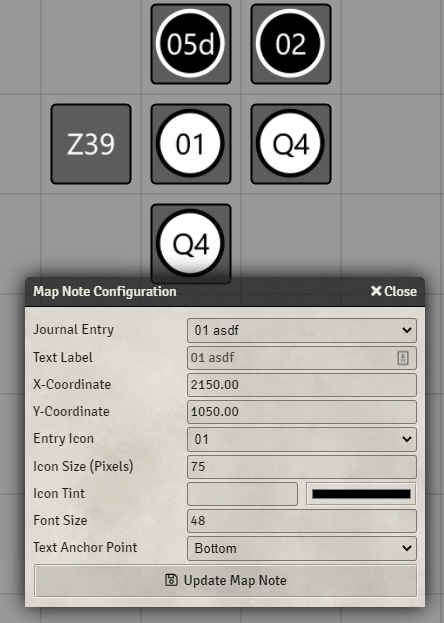
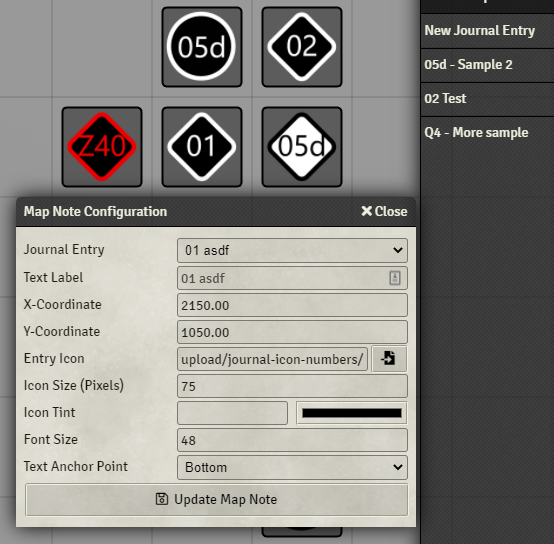
Refactor to use regex, and add in new shapes

diff --git a/src/index.js b/src/index.js
@@ -1,100 +1,94 @@
 
-function* label_itr() {
-    // Generate all letters [a-zA-Z], including blank
-    var letters = [""]
-    for (let x = 0;x<26;x++) {
-        letters.push(String.fromCharCode(97+x));
-    }
-    for (let x = 0;x<26;x++) {
-        letters.push(String.fromCharCode(65+x));
-    }
-    
-    // All numbers 1-99, both 0 padded and not
-    var numbers = []
-    for (let i = 1; i < 10; i++) {
-        numbers.push(("" + i ))
-    }
-    for (let i = 1; i < 100; i++) {
-        numbers.push(("" + i ).padStart(2, "0"));
-    }
-
-    // Number + Letter ordering
-    for (const order of [0,1]){
-        for (const number of numbers) {
-            for (const letter of letters) {
-                const label = order ? number + letter: letter + number;
-                const u_l = letter == letter.toUpperCase()?"upper":"lower";
-                const iconType = game.settings.get('journal-icon-numbers', "iconType");
-                
-                const iconFilename = `${iconType}_${u_l}_${label}.svg`;
-                yield [label,iconFilename];
-            }
-        }
-    }
-}
-
-
-    
 
 async function renderNoteConfig(app, html, data) {
-
+    
     const label_source = (data.object.text != undefined && data.object.text.length >=1) ? data.object.text : data.entryName;
     var [iconFilepath,label] = await getMakeIcon(label_source);
     if (iconFilepath === null){
-        return;
+        return; // Not valid, so keep default icon.
     }
     // Fix for Pin Cushion, which uses a file picker instead of the dropdown
     $('input.icon-path[name="icon"]').val(iconFilepath);
+    //$('input.icon-path[name="icon"]').val("auto.svg");
 
     // Add item to selector
     $('select[name="icon"]', html).append(`<option value=${iconFilepath} selected>${label}</option>`);
-
+    //$('select[name="icon"]', html).append(`<option value=Auto selected>Auto</option>`);
+    
+    //console.log($('section.window-content',html)[0].children)
+    //console.log($('section.window-content',html)[0].children[0])
+    //console.log($('section.window-content',html)[0].children[0][8])
+    //html.find('div.form-group')[6].after("<p> asdf</p>")
+    
     // TODO Add config for this size override
     $('input[name="iconSize"]').val(Math.round(game.scenes.viewed.data.grid * 0.75));
 }
 
 
+function templateCircle(fill, stroke) {
+    return `<circle style="fill:${fill};stroke:${stroke};stroke-width:30;stroke-miterlimit:10;" cx="250" cy="250" r="220" />`
+}
+function templateSquare(fill, stroke) {
+    return `<rect style="fill:${fill};stroke:${stroke};stroke-width:30;stroke-miterlimit:10;" x="31" y="31" height="450" width="450"/>`
+}
+function templateDiamond(fill, stroke) {
+    return `<rect style="fill:${fill};stroke:${stroke};stroke-width:30;stroke-miterlimit:10;" x="190" y="-170" height="340" width="340"  transform="rotate(45)" ry="50"/>`
+}
+function templateText(color,label) {
+    return `<text font-family='-apple-system, BlinkMacSystemFont, "Segoe UI", Roboto, Helvetica, Arial, sans-serif, "Apple Color Emoji", "Segoe UI Emoji", "Segoe UI Symbol"' font-size="200" font-weight="400"  x="50%" y="50%" text-anchor="middle" fill="${color}" stroke="${color}" dy=".3em">${label}</text></g></svg>`
+}
+
 
 async function getMakeIcon(label_source) {            
     // user-placed map note
+     
+    var matches = label_source.match(/^\d{1,2}[a-zA-Z]?|^[a-zA-Z]\d{1,2}/)
+    if (matches) {
+        var label = matches[0];
+        var u_l = label.match(/[A-Z]/) ?"upper":"lower"; 
+        
+        const iconType = game.settings.get('journal-icon-numbers', "iconType");
+        const iconColor = game.settings.get('journal-icon-numbers', "iconColor");
+        
+        var iconFilename = `${iconColor}_${iconType}_${u_l}_${label}.svg`;
     
-    const idx1 = label_source.length >= 1 ? label_source.substr(0, 1) : "";
-    const idx2 = label_source.length >= 2 ? label_source.substr(0, 2) : "";
-    const idx3 = label_source.length >= 3 ? label_source.substr(0, 3) : "";
-    
-    for (const idx of [idx3, idx2, idx1]) {
-        for (const [label,iconFilename] of label_itr()) {
-            
-            if (idx === label) {
-                console.debug("Auto-Journal-Icon",label,iconFilename);
-                // Iterator returns >10K entries, so only display ones that match this label
+        console.debug("Auto-Journal-Icon",label,iconFilename);
 
-                const iconType = game.settings.get('journal-icon-numbers', "iconType");
-                              
-                // TODO refactor blobs of html
-                var typeString = '<svg xmlns="http://www.w3.org/2000/svg" xmlns:xlink="http://www.w3.org/1999/xlink" xml:space="preserve" style="shape-rendering:geometricPrecision; text-rendering:geometricPrecision; image-rendering:optimizeQuality; fill-rule:evenodd; clip-rule:evenodd" viewBox="0 0 512 512" width="512" height="512"><g>';
-                
-                switch (iconType) {
-                    case "wcbf":
-                        typeString += '<circle style="fill:#ffffff;stroke:#010101;stroke-width:30;stroke-miterlimit:10;" cx="250" cy="250" r="220"> </circle> <text font-family=\'-apple-system, BlinkMacSystemFont, "Segoe UI", Roboto, Helvetica, Arial, sans-serif, "Apple Color Emoji", "Segoe UI Emoji", "Segoe UI Symbol"\' font-size="200" font-weight="400" fill="black" x="50%" y="52%" text-anchor="middle" stroke="#000000" dy=".3em">';
-                        break
-                    case "ncwf":
-                        typeString += ' <text font-family=\'-apple-system, BlinkMacSystemFont, "Segoe UI", Roboto, Helvetica, Arial, sans-serif, "Apple Color Emoji", "Segoe UI Emoji", "Segoe UI Symbol"\' font-size="200" font-weight="400" fill="white" x="50%" y="52%" text-anchor="middle" stroke="#FFFFFF" dy=".3em">';
-                        break;
-                    case "bcwf":
-                        typeString += '<circle style="fill:#010101;stroke:#FFFFFF;stroke-width:30;stroke-miterlimit:10;" cx="250" cy="250" r="220"> </circle> <text font-family=\'-apple-system, BlinkMacSystemFont, "Segoe UI", Roboto, Helvetica, Arial, sans-serif, "Apple Color Emoji", "Segoe UI Emoji", "Segoe UI Symbol"\' font-size="200" font-weight="400" fill="white" x="50%" y="52%" text-anchor="middle" stroke="#FFFFFF" dy=".3em">';
-                }
-                
-                let file = new File([typeString  + label + '</text></g></svg>'], iconFilename, {});
-                
-                // TODO Add config for save path (And maybe code for s3?)
-                var result = await FilePicker.upload("data", "upload/journal-icon-numbers", file, {  });
-                    
-                console.log("Auto-Journal-Icon - Succesfully uploaded", result);
-                return [result.path,label];
-                
-            }
-        }        
+
+        var svgString = '<svg xmlns="http://www.w3.org/2000/svg" xmlns:xlink="http://www.w3.org/1999/xlink" xml:space="preserve" style="shape-rendering:geometricPrecision; text-rendering:geometricPrecision; image-rendering:optimizeQuality; fill-rule:evenodd; clip-rule:evenodd" viewBox="0 0 512 512" width="512" height="512"><g>';
+         
+        if (iconColor == "black") {
+            var foreColor = "#FFFFFF";
+            var backColor = "#000000";
+        }
+        else {
+            var foreColor = "#000000";
+            var backColor = "#FFFFFF";
+        }
+        
+        switch (iconType) {
+            case "square":
+                svgString += templateSquare(foreColor,backColor) + templateText(backColor, label);
+                break;
+            case "diamond":
+                svgString += templateDiamond(foreColor,backColor) + templateText(backColor, label);
+                break;
+            case "none":
+                svgString += templateTextStart(backColor);
+                break;
+            default:
+                svgString += templateCircle(foreColor,backColor) + templateText(backColor, label);
+                break;
+        }
+        
+        let file = new File([svgString], iconFilename, {});
+        
+        // TODO Add config for save path (And maybe code for s3?)
+        var result = await FilePicker.upload("data", "upload/journal-icon-numbers", file, {  });
+            
+        console.log("Auto-Journal-Icon - Succesfully uploaded", result);
+        return [result.path,label];
+
     }
     console.log("Auto-Journal-Icon - No Match found");
     return [null,null];
@@ -109,10 +103,22 @@ Hooks.once("ready", function() {
     Hooks.on("renderNoteConfig", renderNoteConfig); 
 });
 
-Hooks.on("closeNoteConfig", function(c) {  
+//Hooks.on("closeNoteConfig", closeNote)
+
+async function closeNote(c,d) {  
    // TODO Good spot for generating file after requested
-   //console.log("AJIN - closeNoteConfig",c); 
-});
+   console.log("AJIN - closeNoteConfig",c,d); 
+   console.log(c.getData())
+   //c.object.data.icon = "fake.svg"
+   
+   const label_source = (c.object.data.text != undefined && c.object.data.text.length >=1) ? c.object.data.text : c.object.entry.data.name;
+    var [iconFilepath,label] = await getMakeIcon(label_source);
+    if (iconFilepath === null){
+        return;
+    }
+   
+   console.log(canvas.notes.get(c.object.data._id).update({icon:iconFilepath}))
+};
 
 async function makeDirs() {
   console.log("Auto-Journal-Icon - Creating dirs");
@@ -144,7 +150,9 @@ Hooks.on("init", () => {
 
 
 Hooks.on("canvasInit", () => {
-    cleanup_legacy_icons();
+    if (game.user.isGM) {
+        cleanup_legacy_icons();
+    }
 })
 
 async function cleanup_legacy_icons() {
@@ -178,17 +186,31 @@ function registerSettings() {
     game.settings.register('journal-icon-numbers', "iconType", {
         name: "SETTINGS.IconStyleN",
         hint: "SETTINGS.IconStyleH",
-        scope: "client",
+        scope: "world",
         type: String,
         choices: {
-            wcbf: "Black text on white circle",
-            bcwf: "White text on black circle",
-            ncwf: "White text, no circle"
+            diamond: "Diamond",
+            square: "Square",
+            circle: "Circle",
+            none: "None",
         },
-        default: "wcbf",
+        default: "circle",
         config: true,
         onChange: s => {}
     });
+    game.settings.register('journal-icon-numbers', "iconColor", {
+        name: "SETTINGS.IconColorN",
+        hint: "SETTINGS.IconColorH",
+        scope: "world",
+        type: String,
+        choices: {
+            white: "White on Black",
+            black: "Black on White",
+        },
+        default: "black",
+        config: true,
+        onChange: s => {}
+    });
+    
+
 }
-
-

diff --git a/README.md b/README.md
@@ -19,4 +19,4 @@ The multiple styles seen in the example can be selected from the config menu.
 
 ## Known issues
 
-* If you rename a note, you need to re-edit it to get the new icon.
+* If you rename a note using the "Text Label", you need to re-edit it to get the new icon.
